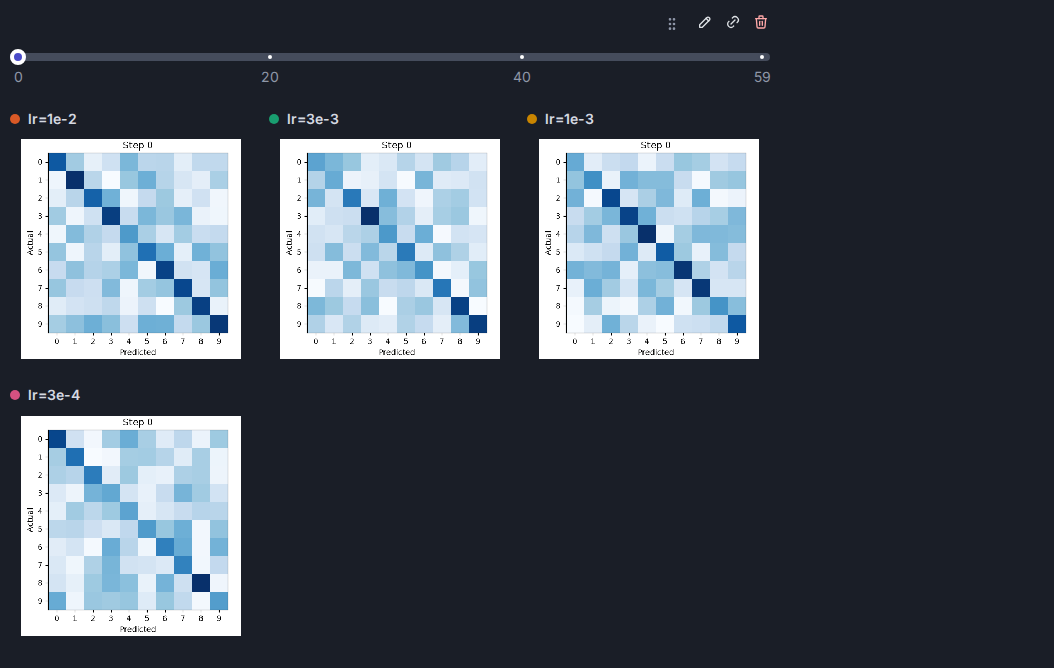
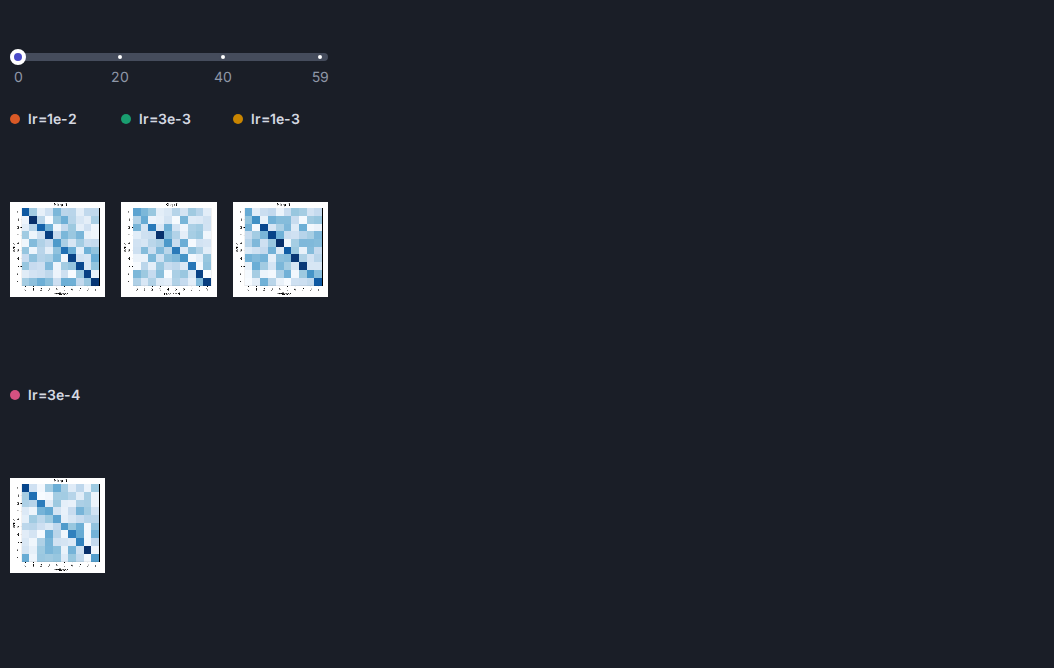
default new panels to a grid layout
A panel's charts now default to equal-width Grid columns instead of Packed (each chart at its own
natural width). Layout is stored explicitly with every saved view, so existing panels keep theirs.

Refs #170

diff --git a/dlboard/tests/browser_test.py b/dlboard/tests/browser_test.py
@@ -1000,9 +1000,11 @@ def test_chart_tooltip_shows_every_series_at_every_hovered_x_position(
     # `BasicExperimentPage.render()`'s own fallback opens the first (and here, only) panel by
     # default -- no click needed to see it render.
 
-    svg = page.locator(".dl-panel-body svg").first
-    expect(svg).to_be_visible()
-    box = svg.bounding_box()
+    # The plot area, not the whole svg: its axis gutters take a fixed width, so at a narrow (grid) chart
+    # a fraction of the svg would land inside them rather than on the data.
+    plot = page.locator(".dl-panel-body .recharts-cartesian-grid").first
+    expect(plot).to_be_visible()
+    box = plot.bounding_box()
     assert box is not None
 
     # Auto-generated -- never actually None here, just typed that way.
@@ -1350,7 +1352,7 @@ def test_changes_in_a_saved_view_leave_the_shared_view_alone(
     page: Page, live_server_url: str, console_errors: list[str]
 ) -> None:
     """
-    Save the page as a personal view, change it there (a panel's layout), and the shared page --
+    Save the page as a personal view, change it there (a panel's grid columns), and the shared page --
     what everyone else sees -- keeps its own layout; switching back shows exactly that.
     """
     _create_project_and_experiment(page, live_server_url, "Views Experiment")
@@ -1377,13 +1379,7 @@ def test_changes_in_a_saved_view_leave_the_shared_view_alone(
     view_id = int(page.url.rsplit("=", 1)[-1])
     expect(page.get_by_role("textbox", name="View", exact=True)).to_have_value("my layout")
 
-    page.locator(".dl-panel-item-header").first.hover()
-    page.get_by_text("Grid", exact=True).first.click()
-    _wait_until(
-        lambda: [p.layout for p in store.get_view(BasicExperimentPage, view_id).panels][:1],  # pyright: ignore[reportOptionalMemberAccess]
-        ["grid"],
-    )
-    # A grid panel's column count is its own setting too, saved with the view and surviving a reload.
+    # A panel's grid column count is its own setting, saved with the view and surviving a reload.
     page.locator(".dl-panel-item-header").first.hover()
     columns = page.get_by_role("textbox", name="Grid columns")
     expect(columns).to_have_value("3")
@@ -1397,7 +1393,7 @@ def test_changes_in_a_saved_view_leave_the_shared_view_alone(
     page.locator(".dl-panel-item-header").first.hover()
     expect(page.get_by_role("textbox", name="Grid columns")).to_have_value("2")
     shared = store.get_or_create_page(BasicExperimentPage, experiment_id=experiment_id)
-    assert {(p.layout, p.grid_columns) for p in shared.panels} == {("packed", 3)}
+    assert {(p.layout, p.grid_columns) for p in shared.panels} == {("grid", 3)}
 
     page.get_by_role("textbox", name="View", exact=True).click()
     page.get_by_role("option", name="Shared view").click()

diff --git a/examples/lightning_advanced.py b/examples/lightning_advanced.py
@@ -29,8 +29,8 @@ exists to produce. Where the script itself works around one, a `# DLBOARD GAP:` 
    offers 886 charts, and its panels sort first, ahead of `train` and `val`.
 7. A long metric name overflows the chart's axis title into the chart next to it (#175).
 8. Auto-generating that many charts is slow, and so is switching Prefix/Suffix in its dialog (#168, #167).
-9. Changing charts-per-row in a big Grid panel blanks the UI (#169); Packed is the default layout (#170); a
-   collapsed panel doesn't say how many charts it holds (#172).
+9. Changing charts-per-row in a big Grid panel blanks the UI (#169); a collapsed panel doesn't say how many
+   charts it holds (#172).
 10. Suggest charts is one add button per key: no select-all, filter or sort (#173).
 11. After running the quickstart too, image-series charts can show other keys' artifacts, even another
     experiment's (#171).

diff --git a/dlboard/models/_view.py b/dlboard/models/_view.py
@@ -375,9 +375,9 @@ class PanelInstance(BaseModel, typing.Generic[_Dataframe, _Chart], frozen=True, 
     sync: bool = True
     """Whether synced-capable charts (e.g. line charts) in this panel share a hover/tooltip crosshair."""
 
-    layout: typing.Literal["packed", "grid"] = "packed"
-    """`"packed"` sizes each chart to its own natural width and wraps them left-to-right;
-    `"grid"` forces every chart onto an equal-width column instead."""
+    layout: typing.Literal["packed", "grid"] = "grid"
+    """`"grid"` (the default) forces every chart onto an equal-width column;
+    `"packed"` sizes each chart to its own natural width and wraps them left-to-right instead."""
 
     grid_columns: GridColumns = 3
     """How many equal-width columns the `"grid"` layout has; unused by `"packed"`."""

diff --git a/dlboard/serve/_pages/_experiment/tests/chart_visibility_test.py b/dlboard/serve/_pages/_experiment/tests/chart_visibility_test.py
@@ -103,7 +103,7 @@ def test_render_panel_charts_badge_when_chart_cannot_hint_its_columns() -> None:
 
 
 def test_render_panel_charts_packed_layout_uses_natural_width() -> None:
-    panel = _panel_with_chart()
+    panel = _panel_with_chart().model_copy(update={"layout": "packed"})
     df = pd.DataFrame({"run_id": [1], "step": [0], "loss": [0.5]})
 
     [stack] = state.render_panel_charts(panel, df)
@@ -112,7 +112,7 @@ def test_render_panel_charts_packed_layout_uses_natural_width() -> None:
 
 
 def test_render_panel_charts_grid_layout_stretches_to_full_width() -> None:
-    panel = _panel_with_chart().model_copy(update={"layout": "grid"})
+    panel = _panel_with_chart()
     df = pd.DataFrame({"run_id": [1], "step": [0], "loss": [0.5]})
 
     [stack] = state.render_panel_charts(panel, df)

diff --git a/dlboard/serve/_pages/_experiment/tests/panel_management_test.py b/dlboard/serve/_pages/_experiment/tests/panel_management_test.py
@@ -125,9 +125,9 @@ def test_apply_panel_sync_drops_sync_id_when_disabled() -> None:
 def test_update_panel_changes_only_the_named_panel() -> None:
     panels = [PanelInstance[Any, Any](name=n) for n in ("a", "b")]
 
-    result = state.update_panel(panels, "a", {"layout": "grid", "grid_columns": 2})
+    result = state.update_panel(panels, "a", {"layout": "packed", "grid_columns": 2})
 
-    assert {p.name: (p.layout, p.grid_columns) for p in result} == {"a": ("grid", 2), "b": ("packed", 3)}
+    assert {p.name: (p.layout, p.grid_columns) for p in result} == {"a": ("packed", 2), "b": ("grid", 3)}
 
 
 @pytest.mark.parametrize("columns", [0, 7, -1])

diff --git a/dlboard/models/tests/view_models_test.py b/dlboard/models/tests/view_models_test.py
@@ -331,3 +331,7 @@ def test_a_saved_chart_keeps_its_id_when_its_parameters_change() -> None:
     )
 
     assert edited.id == saved.id
+
+
+def test_a_new_panel_lays_its_charts_out_in_a_grid() -> None:
+    assert PanelInstance[typing.Any, typing.Any]().layout == "grid"

diff --git a/CHANGELOG.md b/CHANGELOG.md
@@ -26,6 +26,11 @@ pulls that section's body into the GitHub release notes and publishes both distr
   Lightning's learning-rate, throughput and device-stats callbacks, checkpoints, and segmentation and
   bounding-box previews -- a deliberately heavy run for exercising the UI.
 
+### Changed
+
+* A new panel lays its charts out in a **Grid** by default, instead of **Packed**. Panels already saved
+  keep the layout they were saved with, and **Packed** is still one click away on the panel's header.
+
 ### Fixed
 
 * Metrics and artifacts logged by a later stage were never shipped when a script exited right after
